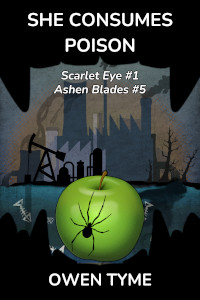
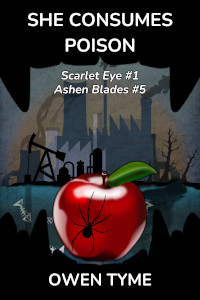
Update Cover of She Consumes Poison
Replaced the green apple with a shiny red one with a leaf.

Changed region(s): [[0.24, 0.51, 0.78, 0.9]]

diff --git a/books/ideas.html b/books/ideas.html
@@ -308,7 +308,7 @@ real</li>
 <li>Probably the reason the vampires seem so inconsistent is the fact
 they aren’t a unified faction and they often fight among themselves
 <ul>
-<li>I doesn’t help that every time Reggie meets them, they try to
+<li>It doesn’t help that every time Reggie meets them, they try to
 magically charm him into helping</li>
 </ul></li>
 </ul></li>
@@ -347,6 +347,14 @@ Order in this novel, perhaps at the end. I could put Knox into it, who
 might be referred to as “our young Knox” by the other vampires, who are
 mostly older than him. It may be the vampires that taught Master Lagrow
 charm magic, though he clearly took it further.</p>
+<p>Notes regarding Reggie:</p>
+<ul>
+<li>He <em>hates</em> witches, even good ones
+<ul>
+<li>This story may be the reason</li>
+<li>Especially considering the romantic sub-plot involving one</li>
+</ul></li>
+</ul>
 <h2 id="fighter-for-hire-working-title">Fighter for Hire (Working
 Title)</h2>
 <p>In <em>Fighter for Hire</em>, a young and inexperienced fighter
